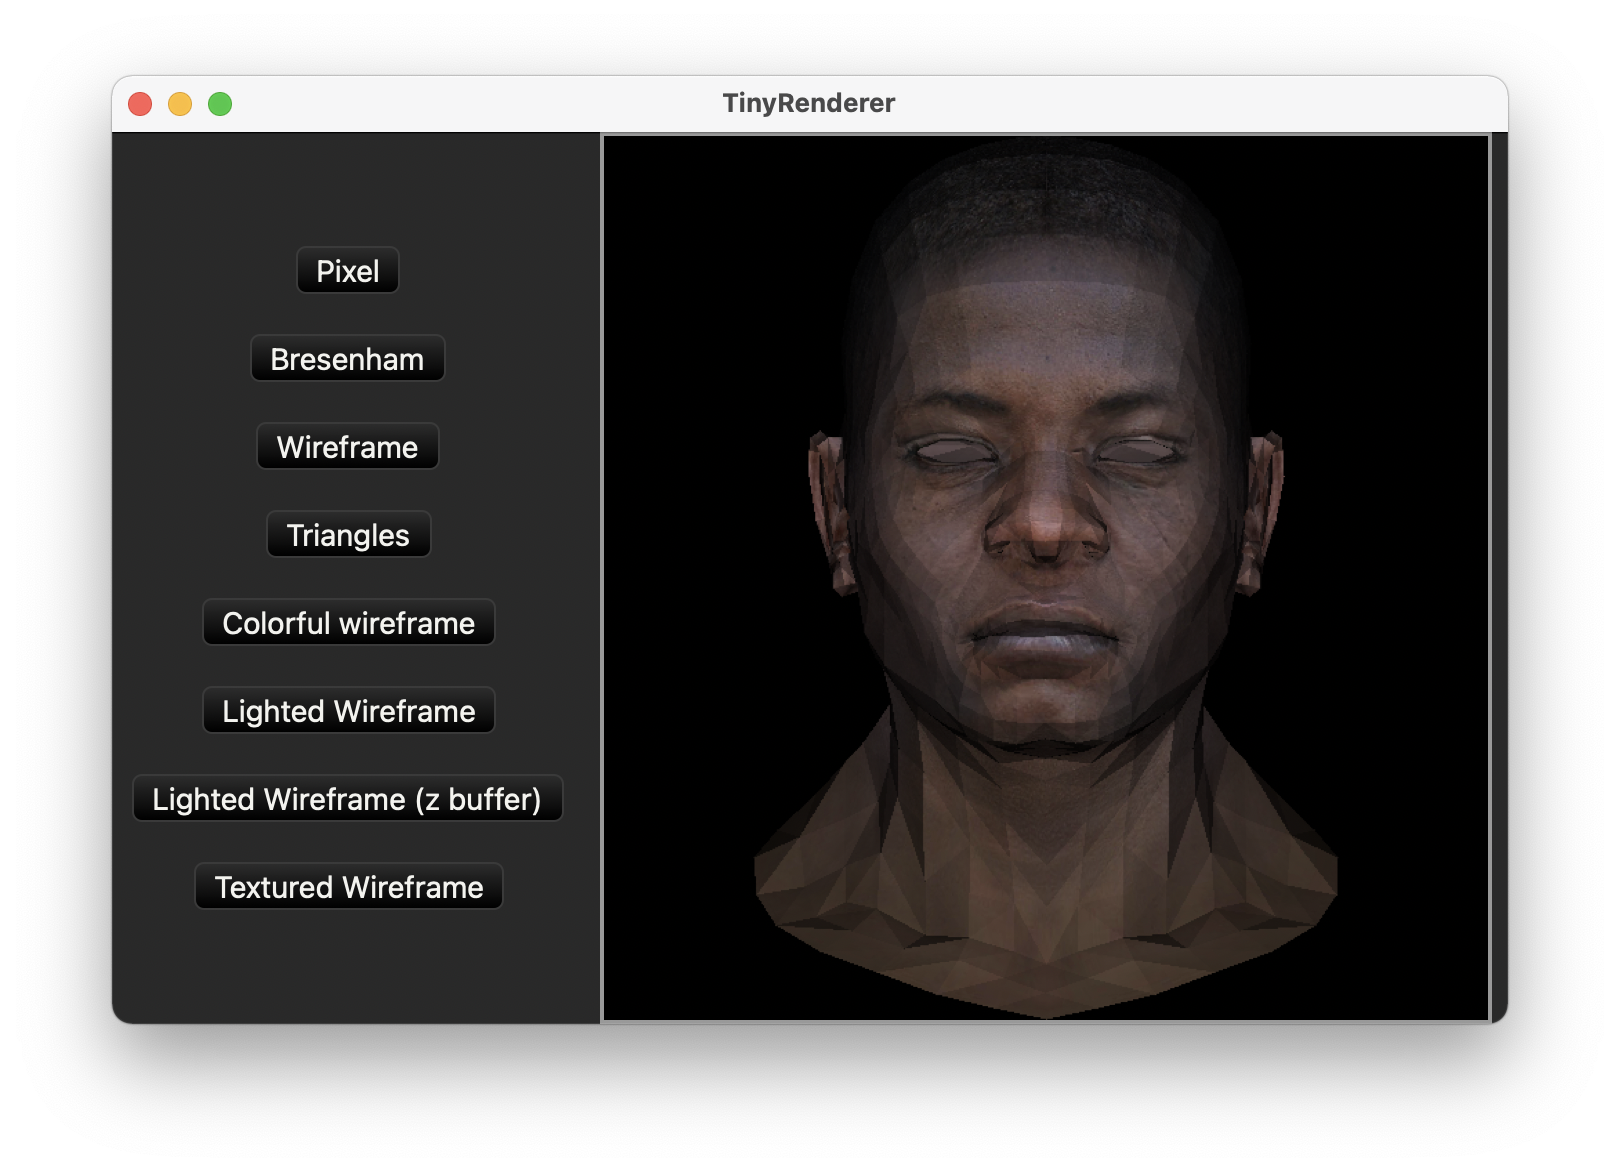
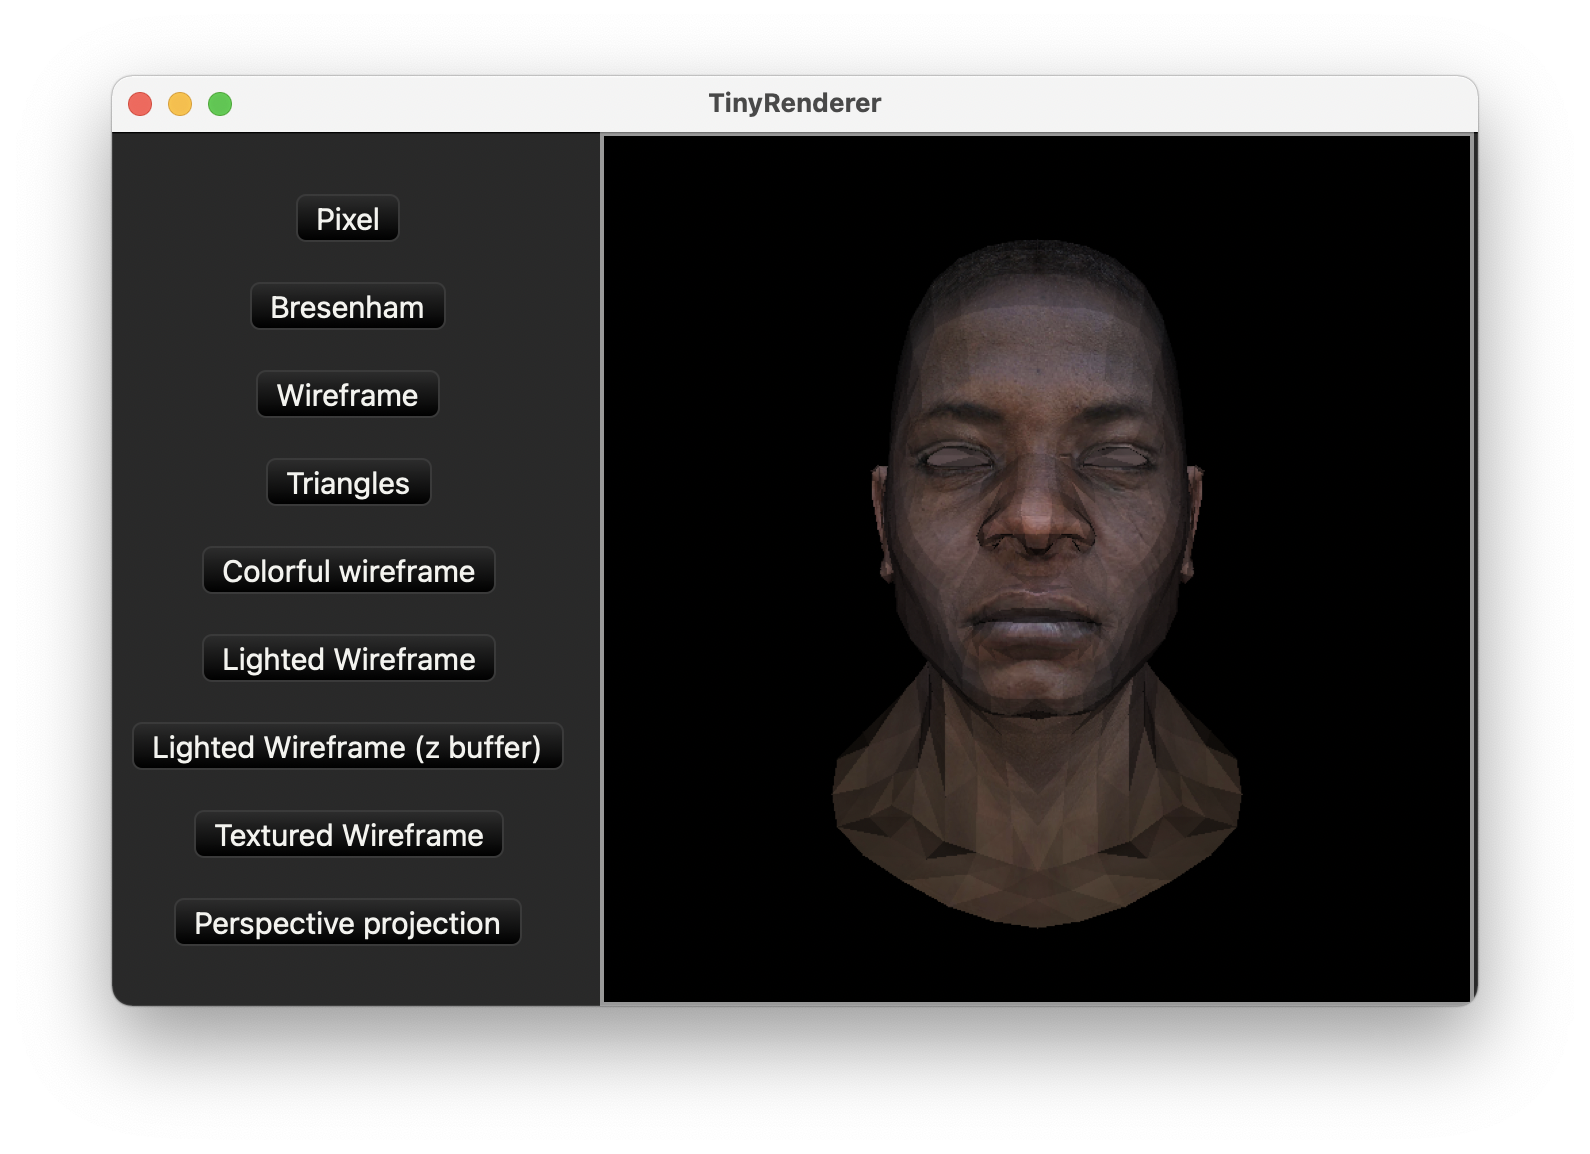
Lesson 4: Perspective projection

diff --git a/src/wireframe.rs b/src/wireframe.rs
@@ -1,3 +1,4 @@
+use crate::matrix::{Matrix, ViewPort};
 use crate::point::{cross, diff, Point, Vec2, Vec3};
 use crate::rgb_image::{RGBColor, RGBImage};
 use image::{DynamicImage, GenericImageView};
@@ -264,6 +265,70 @@ impl RGBImage {
         }
     }
 
+    pub(crate) fn render_z_buffer_texture_2(
+        &mut self,
+        wireframe: WireframeModel,
+        texture: DynamicImage,
+        light_dir: Vec3<f32>,
+    ) {
+        let z_buffer_size: i32 = self.width as i32 * self.height as i32;
+        let mut z_buffer: Vec<f32> = (0..z_buffer_size).map(|_x| -1.0).collect();
+
+        let mut projection = Matrix::new_identity(4);
+        let camera_z = 3.0;
+        projection.m[3][2] = -1.0 / camera_z;
+        let view_port = ViewPort {
+            x: self.width / 8,
+            y: self.height / 8,
+            width: self.width * 3 / 4,
+            height: self.height * 3 / 4,
+        };
+        let projection_viewport = view_port.to_matrix() * projection;
+
+        for face in wireframe.faces {
+            let world_coords = face.map(|f| wireframe.vertexes[f.vertex_index]);
+            let mut n = cross(
+                diff(world_coords[2], world_coords[0]),
+                diff(world_coords[1], world_coords[0]),
+            );
+            n.normalize();
+            let intensity = light_dir.x * n.x + light_dir.y * n.y + light_dir.z * n.z;
+
+            let texture_coords = face
+                .map(|f| wireframe.texture_coord[f.texture_index])
+                .map(|p| Vec2 {
+                    x: texture.width() as f32 * p.0,
+                    y: texture.height() as f32 * p.1,
+                });
+
+            let texture_color = |bc: Vec3<f32>| -> RGBColor {
+                let uv = Vec2 {
+                    x: texture_coords[0].x * bc.x
+                        + texture_coords[1].x * bc.y
+                        + texture_coords[2].x * bc.z,
+                    y: texture_coords[0].y * bc.x
+                        + texture_coords[1].y * bc.y
+                        + texture_coords[2].y * bc.z,
+                };
+                let pixel = texture.get_pixel(uv.x as u32, uv.y as u32);
+                let color = RGBColor {
+                    r: pixel.0[0],
+                    g: pixel.0[1],
+                    b: pixel.0[2],
+                }
+                .with_intensity(intensity);
+                return color;
+            };
+            if intensity > 0.0 {
+                let pts = RGBImage::screen_triangle_3d_perspective(
+                    world_coords,
+                    projection_viewport.clone(),
+                );
+                self.triangle_z_buffer_bary(pts, &mut z_buffer, &texture_color);
+            }
+        }
+    }
+
     fn screen_triangle(world_coords: [Vec3<f32>; 3], width: u16, height: u16) -> [Vec2<u16>; 3] {
         let projection = |world_coords: Vec3<f32>| Vec2::<u16> {
             x: ((world_coords.x + 1.0) * (width as f32) / 2.0) as u16,
@@ -281,6 +346,22 @@ impl RGBImage {
             x: ((world_coords.x + 1.0) * (width as f32) / 2.0) as u16,
             y: ((world_coords.y + 1.0) * (height as f32) / 2.0) as u16,
             z: world_coords.z as u16,
+        };
+        [
+            projection(world_coords[0]),
+            projection(world_coords[1]),
+            projection(world_coords[2]),
+        ]
+    }
+
+    fn screen_triangle_3d_perspective(
+        world_coords: [Vec3<f32>; 3],
+        projection_matrix: Matrix,
+    ) -> [Vec3<u16>; 3] {
+        let projection = |world_coords: Vec3<f32>| {
+            (projection_matrix.clone() * world_coords.to_matrix())
+                .to_vector()
+                .as_u16()
         };
         [
             projection(world_coords[0]),

diff --git a/src/matrix.rs b/src/matrix.rs
@@ -1,0 +1,94 @@
+use crate::point::Vec3;
+use std::ops::Mul;
+
+pub(crate) struct ViewPort {
+    pub(crate) x: u16,
+    pub(crate) y: u16,
+    pub(crate) width: u16,
+    pub(crate) height: u16,
+}
+
+#[derive(Clone)]
+pub(crate) struct Matrix {
+    pub(crate) m: Vec<Vec<f32>>,
+}
+
+impl Matrix {
+    pub(crate) fn new(rows: usize, cols: usize) -> Self {
+        Matrix {
+            m: vec![vec![0.0; cols]; rows],
+        }
+    }
+
+    pub(crate) fn new_identity(l: usize) -> Self {
+        let mut m = Matrix::new(l, l);
+        for i in 0..l {
+            m.m[i][i] = 1.0;
+        }
+        return m;
+    }
+
+    fn cols(&self) -> usize {
+        return match self.m.first() {
+            None => 0,
+            Some(row) => row.len(),
+        };
+    }
+
+    fn rows(&self) -> usize {
+        self.m.len()
+    }
+
+    pub(crate) fn to_vector(&self) -> Vec3<f32> {
+        assert_eq!(self.cols(), 1);
+        assert_eq!(self.rows(), 4);
+        Vec3 {
+            x: self.m[0][0] / self.m[3][0],
+            y: self.m[1][0] / self.m[3][0],
+            z: self.m[2][0] / self.m[3][0],
+        }
+    }
+}
+
+impl ViewPort {
+    pub(crate) fn to_matrix(&self) -> Matrix {
+        let depth: f32 = 255.0;
+
+        let mut m = Matrix::new_identity(4);
+        m.m[0][3] = self.x as f32 + self.width as f32 / 2.0;
+        m.m[1][3] = self.y as f32 + self.height as f32 / 2.0;
+        m.m[2][3] = depth / 2.0;
+
+        m.m[0][0] = self.width as f32 / 2.0;
+        m.m[1][1] = self.height as f32 / 2.0;
+        m.m[2][2] = depth / 2.0;
+        return m;
+    }
+}
+
+impl Vec3<f32> {
+    pub(crate) fn to_matrix(&self) -> Matrix {
+        let mut m = Matrix::new(4, 1);
+        m.m[0][0] = self.x;
+        m.m[1][0] = self.y;
+        m.m[2][0] = self.z;
+        m.m[3][0] = 1.0;
+        return m;
+    }
+}
+
+impl Mul for Matrix {
+    type Output = Self;
+    fn mul(self, rhs: Self) -> Self::Output {
+        assert_eq!(self.cols(), rhs.rows());
+        let mut r = Matrix::new(self.rows(), rhs.cols());
+        for i in 0..self.rows() {
+            for j in 0..rhs.cols() {
+                for k in 0..self.cols() {
+                    r.m[i][j] += self.m[i][k] * rhs.m[k][j];
+                }
+            }
+        }
+        return r;
+    }
+}

diff --git a/src/lessons.rs b/src/lessons.rs
@@ -106,6 +106,23 @@ fn lesson3_2() -> RGBImage {
     return canvas;
 }
 
+fn lesson4() -> RGBImage {
+    let mut canvas = RGBImage::new(640, 640, BLACK_COLOR);
+    let texture = image::open("african_head_diffuse.tga").unwrap().flipv();
+    let model = WireframeModel::from_file("african_head.obj".to_string());
+    canvas.render_z_buffer_texture_2(
+        model,
+        texture,
+        Vec3 {
+            x: 0.0,
+            y: 0.0,
+            z: -1.0,
+        },
+    );
+    canvas.flip_vertically();
+    return canvas;
+}
+
 #[derive(Copy, Clone)]
 pub struct Lesson {
     pub name: &'static str,
@@ -118,7 +135,7 @@ impl Lesson {
     }
 }
 
-pub fn lessons() -> [Lesson; 8] {
+pub fn lessons() -> [Lesson; 9] {
     [
         Lesson {
             name: "Pixel",
@@ -151,6 +168,10 @@ pub fn lessons() -> [Lesson; 8] {
         Lesson {
             name: "Textured Wireframe",
             renderer: lesson3_2,
+        },
+        Lesson {
+            name: "Perspective projection",
+            renderer: lesson4,
         },
     ]
 }

diff --git a/src/point.rs b/src/point.rs
@@ -57,6 +57,14 @@ impl Vec3<f32> {
         self.y /= n;
         self.z /= n;
     }
+
+    pub(crate) fn as_u16(self) -> Vec3<u16> {
+        Vec3 {
+            x: self.x as u16,
+            y: self.y as u16,
+            z: self.z as u16,
+        }
+    }
 }
 
 pub(crate) fn barycentric(pts: [Vec2<i32>; 3], p: Vec2<i32>) -> Vec3<f32> {

diff --git a/src/lib.rs b/src/lib.rs
@@ -1,5 +1,6 @@
 pub mod lessons;
 mod line;
+mod matrix;
 mod point;
 pub mod rgb_image;
 mod tga_image;
